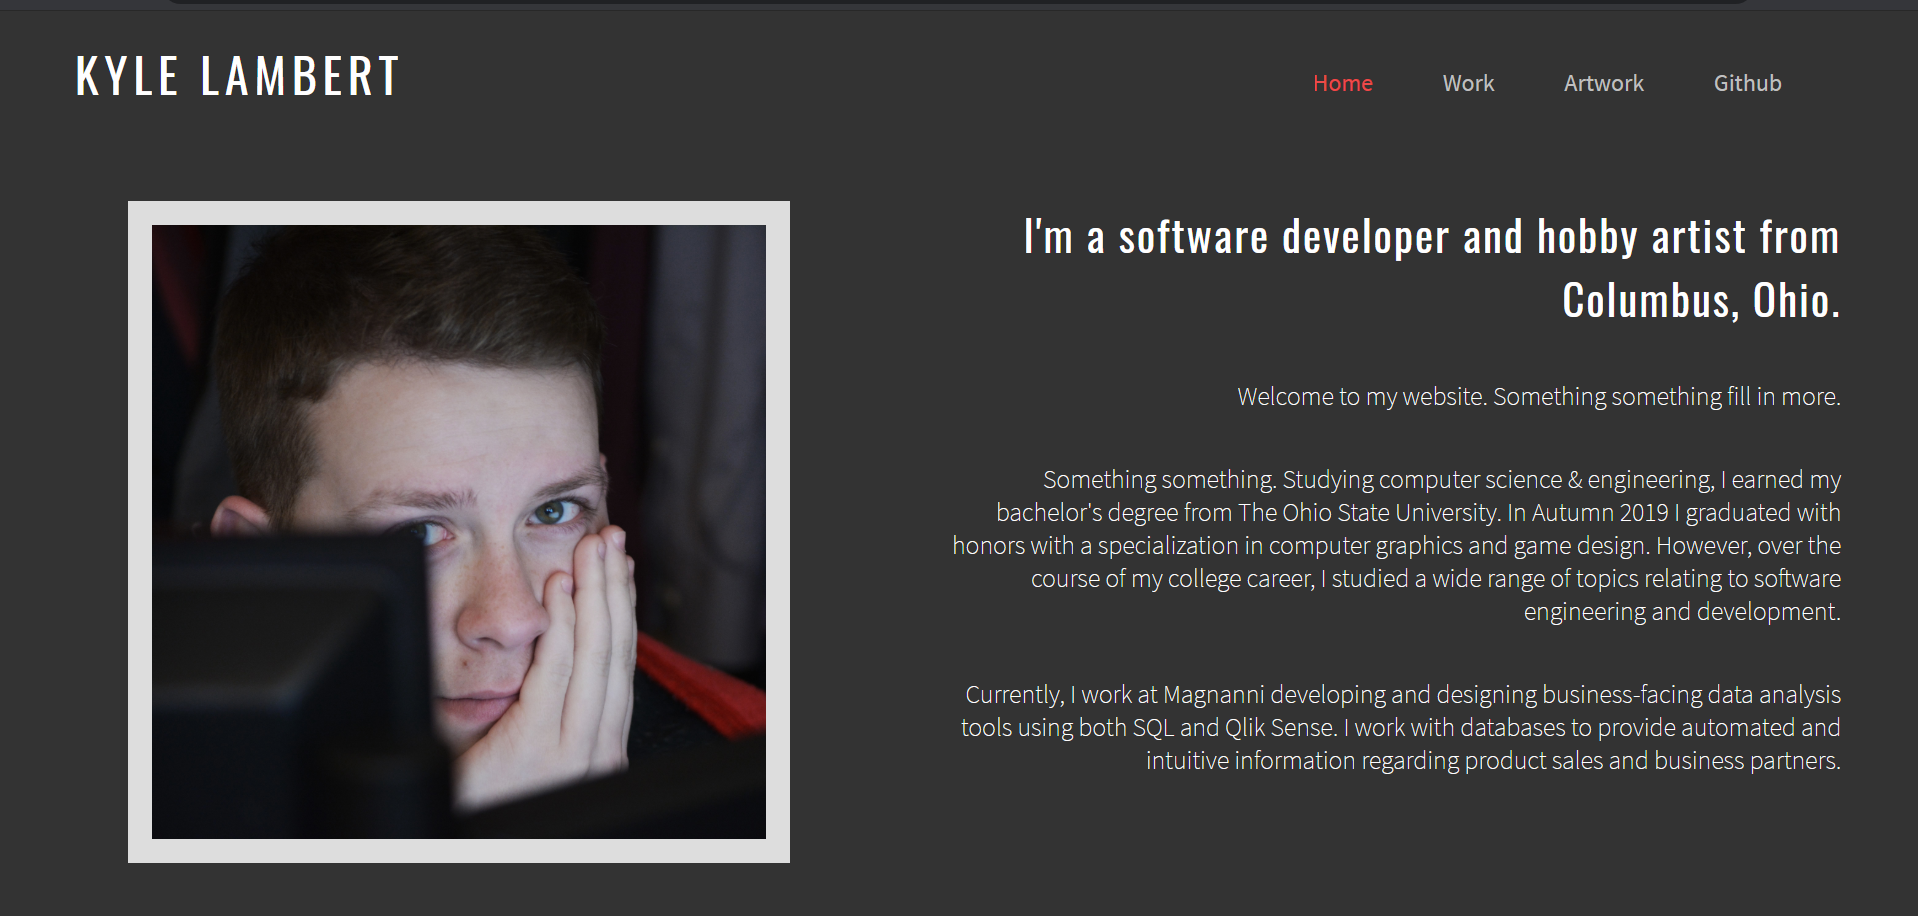
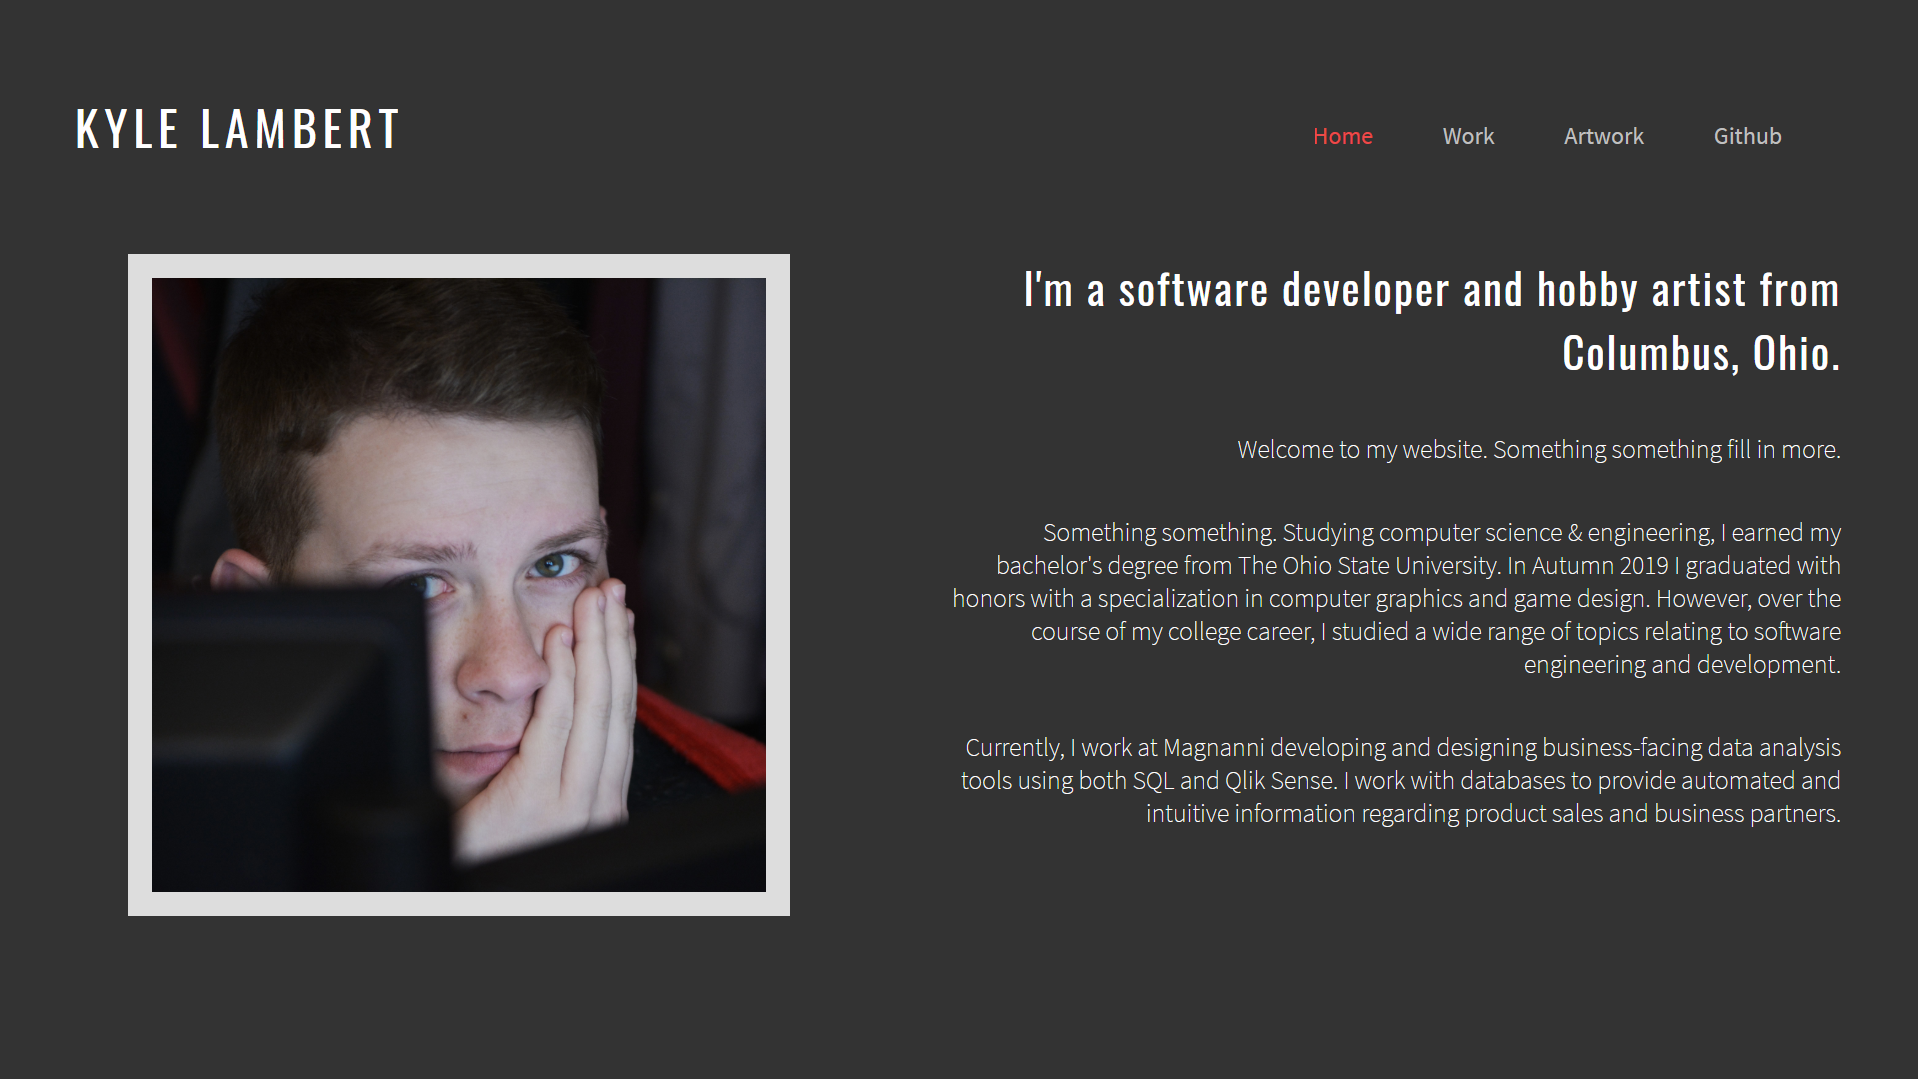
more work on work page

diff --git a/work.html b/work.html
@@ -2,7 +2,7 @@
 <html>
 
 <head>
-    <title>Kyle Lambert</title>
+    <title>Work - Kyle Lambert</title>
     <link href="https://fonts.googleapis.com/css?family=Source+Sans+Pro:200,400|Oswald" rel="stylesheet">
     <link rel="stylesheet" href="work-style.css">
 </head>
@@ -36,7 +36,7 @@
             <p3><a href="DOA.html">Read more</a></p3>
         </section>
 
-        <img class="img1" src="Images/Work/Website.png" alt="Homepage">
+        <img class="img1" src="Images/Work/Website.png" alt="Homepage Screenshot">
         <section class="container-content-inner">
             <p1>Personal Website</p1>
             <p2>My personal website that you are browsing right now. All source code is written from the
@@ -46,7 +46,7 @@
             <p3><a href="DOA.html">Read more</a></p3>
         </section>
 
-        <img class="img1" src="Images/Work/DOA.png" alt="DOA Screenshot">
+        <img class="img1" src="Images/Work/BoidsBirds.png" alt="Boids Screenshot">
         <section class="container-content-inner">
             <p1>Boids Birds Algorithm</p1>
             <p2>A WebGL and JavaScript project implementation of Boids algorithm, which simulates the flocking or
@@ -57,10 +57,10 @@
             <p3><a href="DOA.html">Read more</a></p3>
         </section>
 
-        <img class="img1" src="Images/Work/DOA.png" alt="DOA Screenshot">
+        <img class="img1" src="Images/Work/Mario.png" alt="Mario Screenshot">
         <section class="container-content-inner">
             <p1>Mario/Portal Game</p1>
-            <p2>Developed as part of a junior-level project course, this Super Mario Bros. expansion game
+            <p2>Developed as part of a junior-level project course, this "Super Mario Bros." expansion game
                 features 30 different power-ups & costumes as well as puzzle-solving action using the
                 power of portals. The engine was developed from scratch within the Monogame framework. 
                 Experience the first level of this NES classic as you never have before.
@@ -68,13 +68,23 @@
             <p3><a href="DOA.html">Read more</a></p3>
         </section>
 
-        <img class="img1" src="Images/Work/DOA.png" alt="DOA Screenshot">
+        <img class="img1" src="Images/Work/Zork.png" alt="Text Screenshot">
         <section class="container-content-inner">
             <p1>Zork-Like Text Adventure</p1>
             <p2>Created from the ground up in C++, this console-based game is heavily inspired
                 by text adventures from the 1970s and 80s, such as Zork. This project acts as a framework for
                 setting up dungeons to explore and puzzles to solve. It also includes three example
                 adventures for players to experience.
+            </p2>
+            <p3><a href="DOA.html">Read more</a></p3>
+        </section>
+
+        <img class="img1" src="Images/Work/Graphics.png" alt="RTR Screenshot">
+        <section class="container-content-inner">
+            <p1>Real-Time Rendering WebGL Projects</p1>
+            <p2>A collection of four projects written in WebGL and Javascript with the help of the THREE.js library.
+                These projects focused on the fundamentals of graphics rendering, using math to create and display 
+                various shapes or objects. There is also an L-Systems project to display a branching pattern that users can manipulate.
             </p2>
             <p3><a href="DOA.html">Read more</a></p3>
         </section>

diff --git a/work-style.css b/work-style.css
@@ -6,7 +6,6 @@ body {
     background: #333;
     background-size: cover;
     padding-top: 3vh;
-    padding-bottom: 50%;
 }
 
 .container-nav-main {
@@ -52,7 +51,7 @@ body {
 
 .container-content {
     display: grid;
-    padding-top: 10vh;
+    padding-top: 10%;
     text-align: right;
 }
 
@@ -134,8 +133,13 @@ body {
         grid-auto-flow: row;
         grid-template-columns: 1.5fr 2fr;
         grid-template-rows: repeat(2, 1fr);
-        grid-row-gap: 10%;
+        grid-row-gap: 1%;
     }
+
+    .container-content-inner p3 a {
+        padding-bottom: 25%;
+    }
+    
 }
 
 @media screen and (orientation: landscape) and (max-width: 900px) {
@@ -157,11 +161,14 @@ body {
     .container-nav-inner li a {
         padding-right: 10px;
     }
+
+    .container-content-inner p3 a {
+        padding-bottom: 25%;
+    }
 }
 
 @media (orientation: portrait) {
 
-    
     body {
         width: 97%;
         margin: 0 auto;
